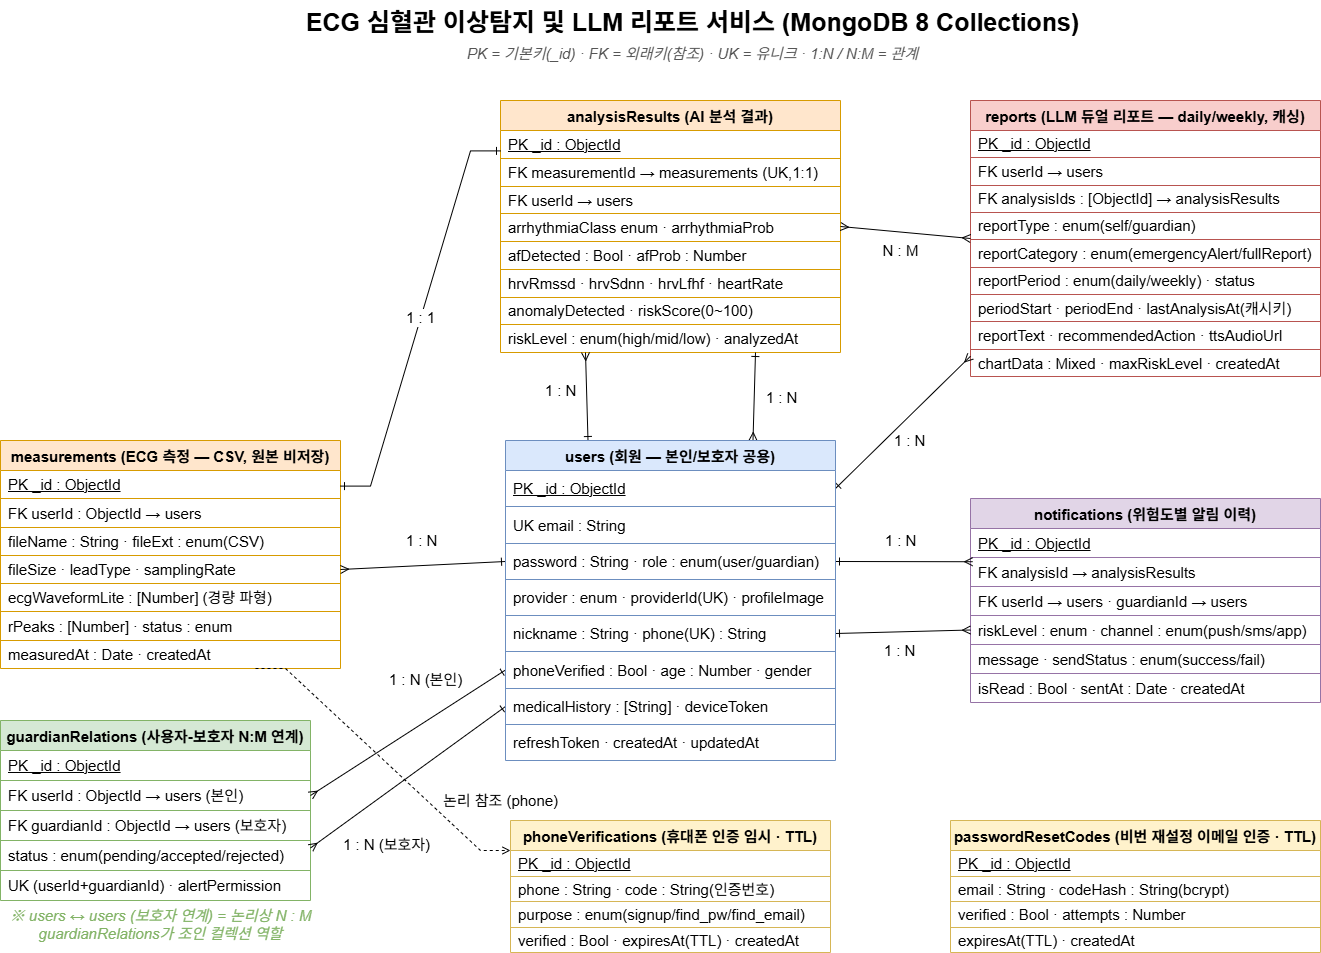
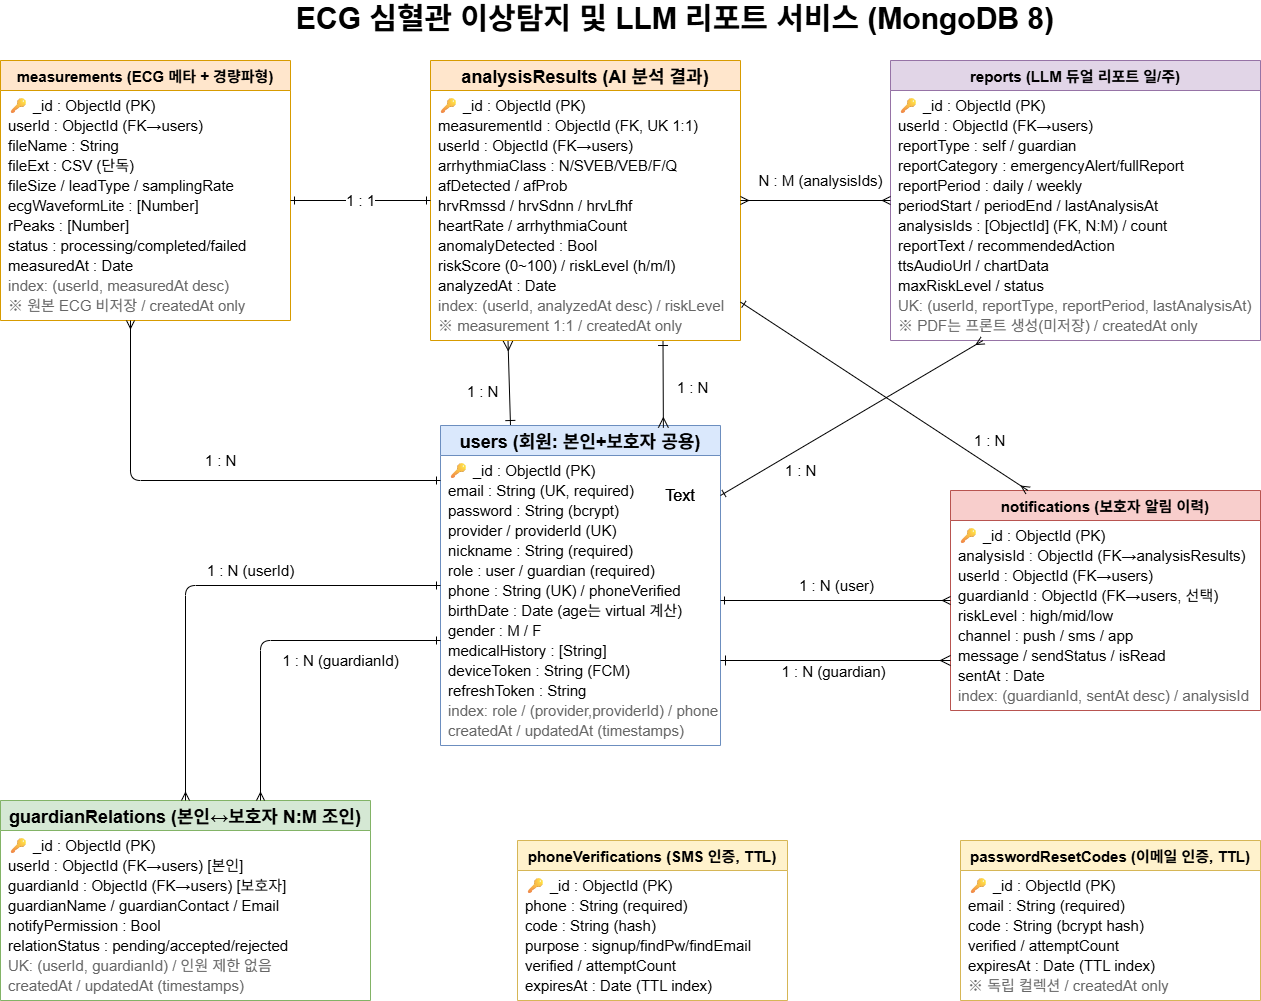
DB users수정(age->birthDate)

diff --git a/backend/src/models/User.js b/backend/src/models/User.js
@@ -1,3 +1,4 @@
+// User.js
 // mongoose: MongoDB를 JavaScript에서 다루기 위한 ODM 라이브러리
 import mongoose from 'mongoose';
 // mongoose에서 Schema(스키마 정의 기능)만 추출
@@ -42,8 +43,12 @@ const userSchema = new Schema(
     phoneVerified: { type: Boolean, default: false, required: true },
 
     // ───────── 건강/프로필 정보 ─────────
-    // age: 나이
-    age: { type: Number },
+    // birthDate: 생년월일(년·월·일까지만 저장)
+    //  - 나이는 시간이 지나면 변하지만 생년월일은 변하지 않는 "사실 값"이므로
+    //    나이를 직접 저장하지 않고 birthDate만 저장합니다.
+    //  - 실제 나이는 아래 virtual('age')에서 조회 시점에 계산합니다.
+    //    (별도의 나이 갱신 배치/스케줄러가 필요 없음)
+    birthDate: { type: Date },
     // gender: 성별 (M=남, F=여)
     gender: { type: String, enum: ['M', 'F'] },
     // medicalHistory: 병력(과거 질환) 목록. 문자열 배열, 기본값 빈 배열
@@ -56,8 +61,30 @@ const userSchema = new Schema(
     refreshToken: { type: String },
   },
   // timestamps: createdAt(생성시각), updatedAt(수정시각)을 자동 생성
-  { timestamps: true }
+  {
+    timestamps: true,
+    // virtuals(가상 필드)를 JSON/객체로 변환할 때도 포함시킵니다.
+    //  - 이렇게 해야 프론트엔드/AI 서버 응답(JSON)에 계산된 age가 함께 담깁니다.
+    toJSON: { virtuals: true },
+    toObject: { virtuals: true },
+  }
 );
+
+// ───────── 가상 필드(virtual): 만 나이 계산 ─────────
+// DB에는 저장하지 않고, 문서를 조회할 때 birthDate를 기준으로 "현재 만 나이"를 계산합니다.
+//  - 사용 예: user.age  →  생년월일로부터 계산된 만 나이(숫자)
+//  - birthDate가 없으면 null을 반환합니다.
+userSchema.virtual('age').get(function () {
+  if (!this.birthDate) return null;
+  const today = new Date();
+  let age = today.getFullYear() - this.birthDate.getFullYear();
+  // 올해 생일이 아직 지나지 않았다면 1살을 뺍니다.
+  const monthDiff = today.getMonth() - this.birthDate.getMonth();
+  if (monthDiff < 0 || (monthDiff === 0 && today.getDate() < this.birthDate.getDate())) {
+    age--;
+  }
+  return age;
+});
 
 // ───────── 인덱스(빠른 검색을 위한 색인) ─────────
 // role 기준 빠른 조회용 인덱스 (예: 보호자만 모아 조회)

diff --git a/backend/scripts/initDB.js b/backend/scripts/initDB.js
@@ -167,6 +167,16 @@ function maxRisk(a, b) {
   return RISK_RANK[a] >= RISK_RANK[b] ? a : b;
 }
 
+// 만 나이(age)를 받아 그 나이에 해당하는 "생년월일(birthDate)"을 만들어 주는 헬퍼
+//  - User 스키마가 age 대신 birthDate(Date)를 저장하도록 변경되었기 때문에 사용합니다.
+//  - 데모이므로 생일은 1월 1일로 고정합니다. (만 나이를 정확히 맞추기 위해 오늘이 1/1 이후라고 가정)
+//  - 예) 오늘이 2026년이고 age=70 이면  ->  1956-01-01 생성
+function birthDateFromAge(age) {
+  const today = new Date();
+  // 올해 연도에서 나이를 빼서 출생 연도를 구함 (생일을 1/1로 두므로 만 나이와 일치)
+  return new Date(today.getFullYear() - age, 0, 1); // 월은 0=1월, 일=1
+}
+
 // 주(week) 시작(월요일 00:00) 계산
 function startOfWeek(date) {
   const d = new Date(date);
@@ -230,7 +240,7 @@ async function seedUsersAndRelations() {
       role: 'user',               // 측정 본인
       phone: SENIOR_PHONES[i],    // 필드명은 phone
       phoneVerified: true,        // 데모이므로 인증 완료 상태
-      age: 70 + i,                // 데모용 나이
+      birthDate: birthDateFromAge(70 + i), // 데모용 나이(70,71,72,73세)에 해당하는 생년월일
       gender: i % 2 === 0 ? 'M' : 'F',
     });
     seniors.push(senior);
@@ -247,7 +257,7 @@ async function seedUsersAndRelations() {
       role: 'guardian',           // 보호자
       phone: GUARDIAN_PHONES[i],
       phoneVerified: true,
-      age: 40 + i,
+      birthDate: birthDateFromAge(40 + i), // 데모용 나이(40~49세)에 해당하는 생년월일
       gender: i % 2 === 0 ? 'F' : 'M',
     });
     guardians.push(guardian);
